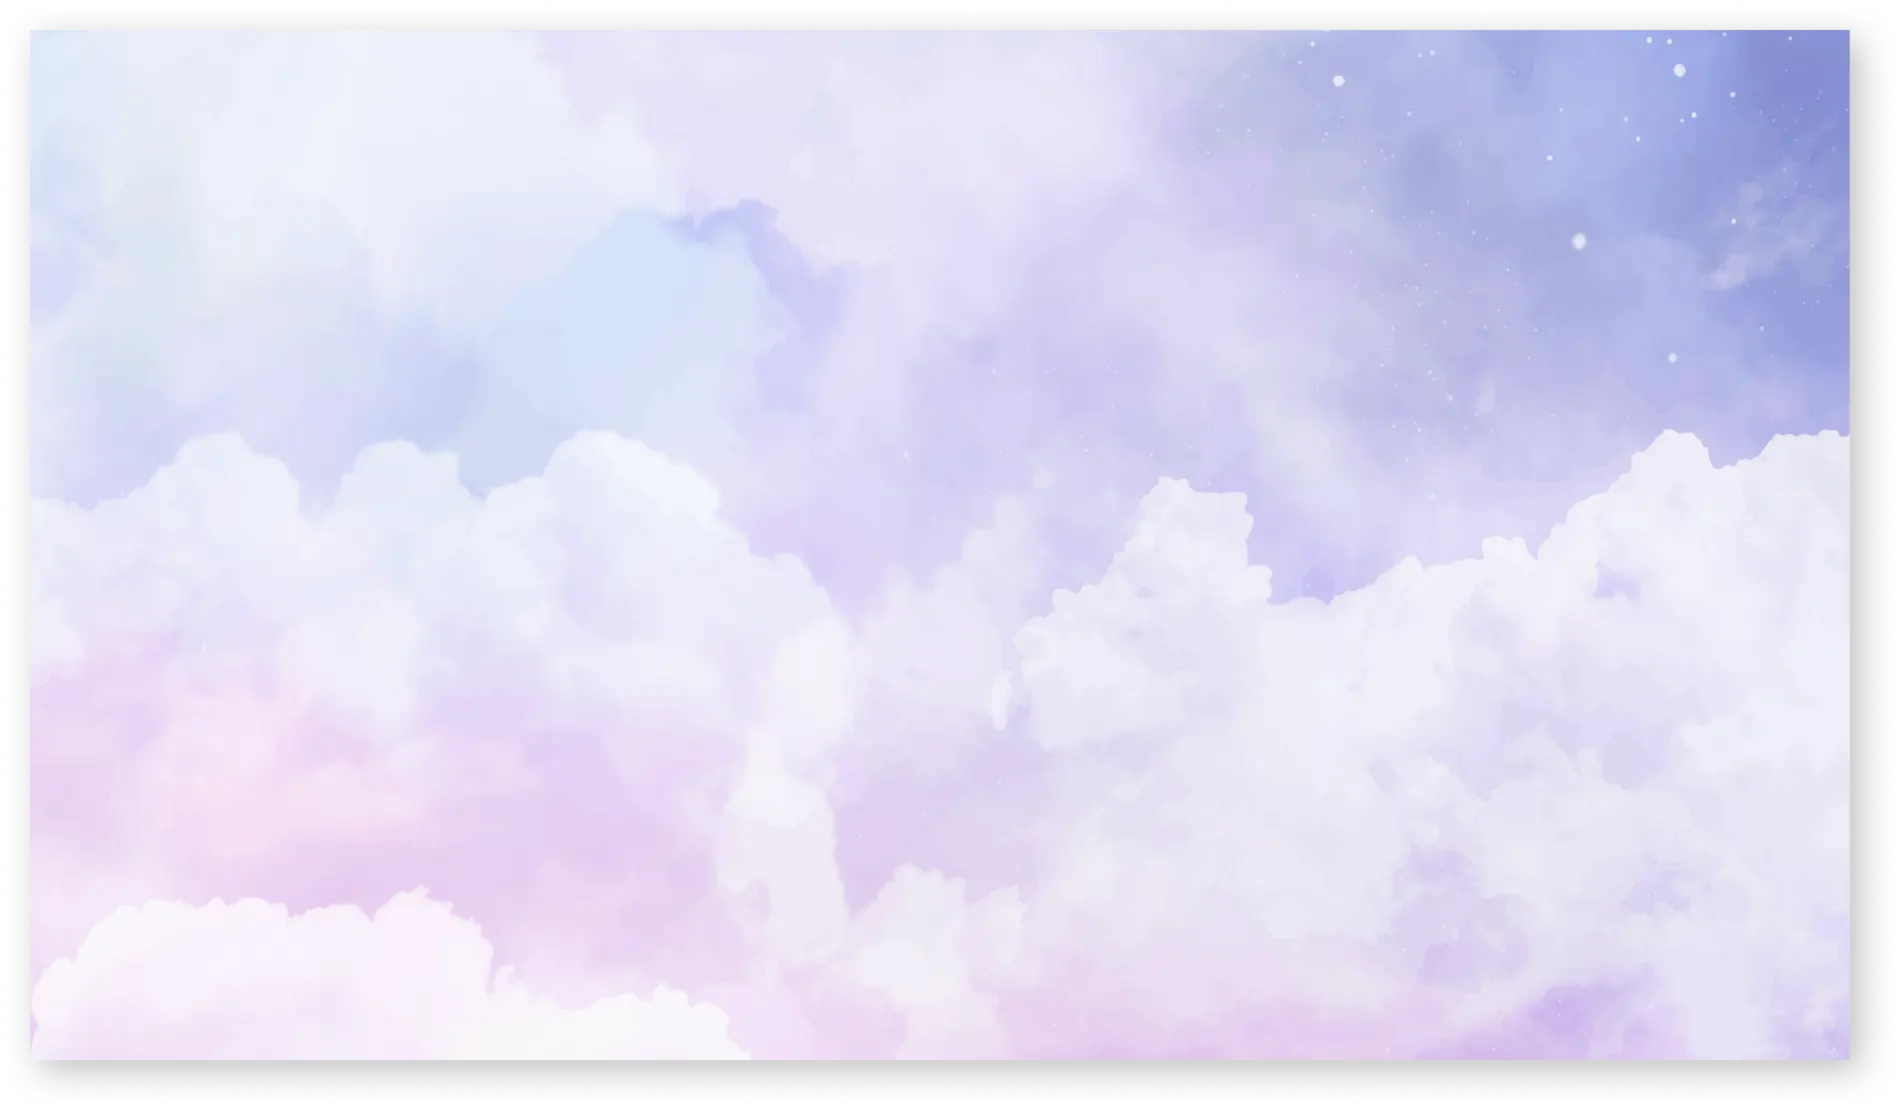
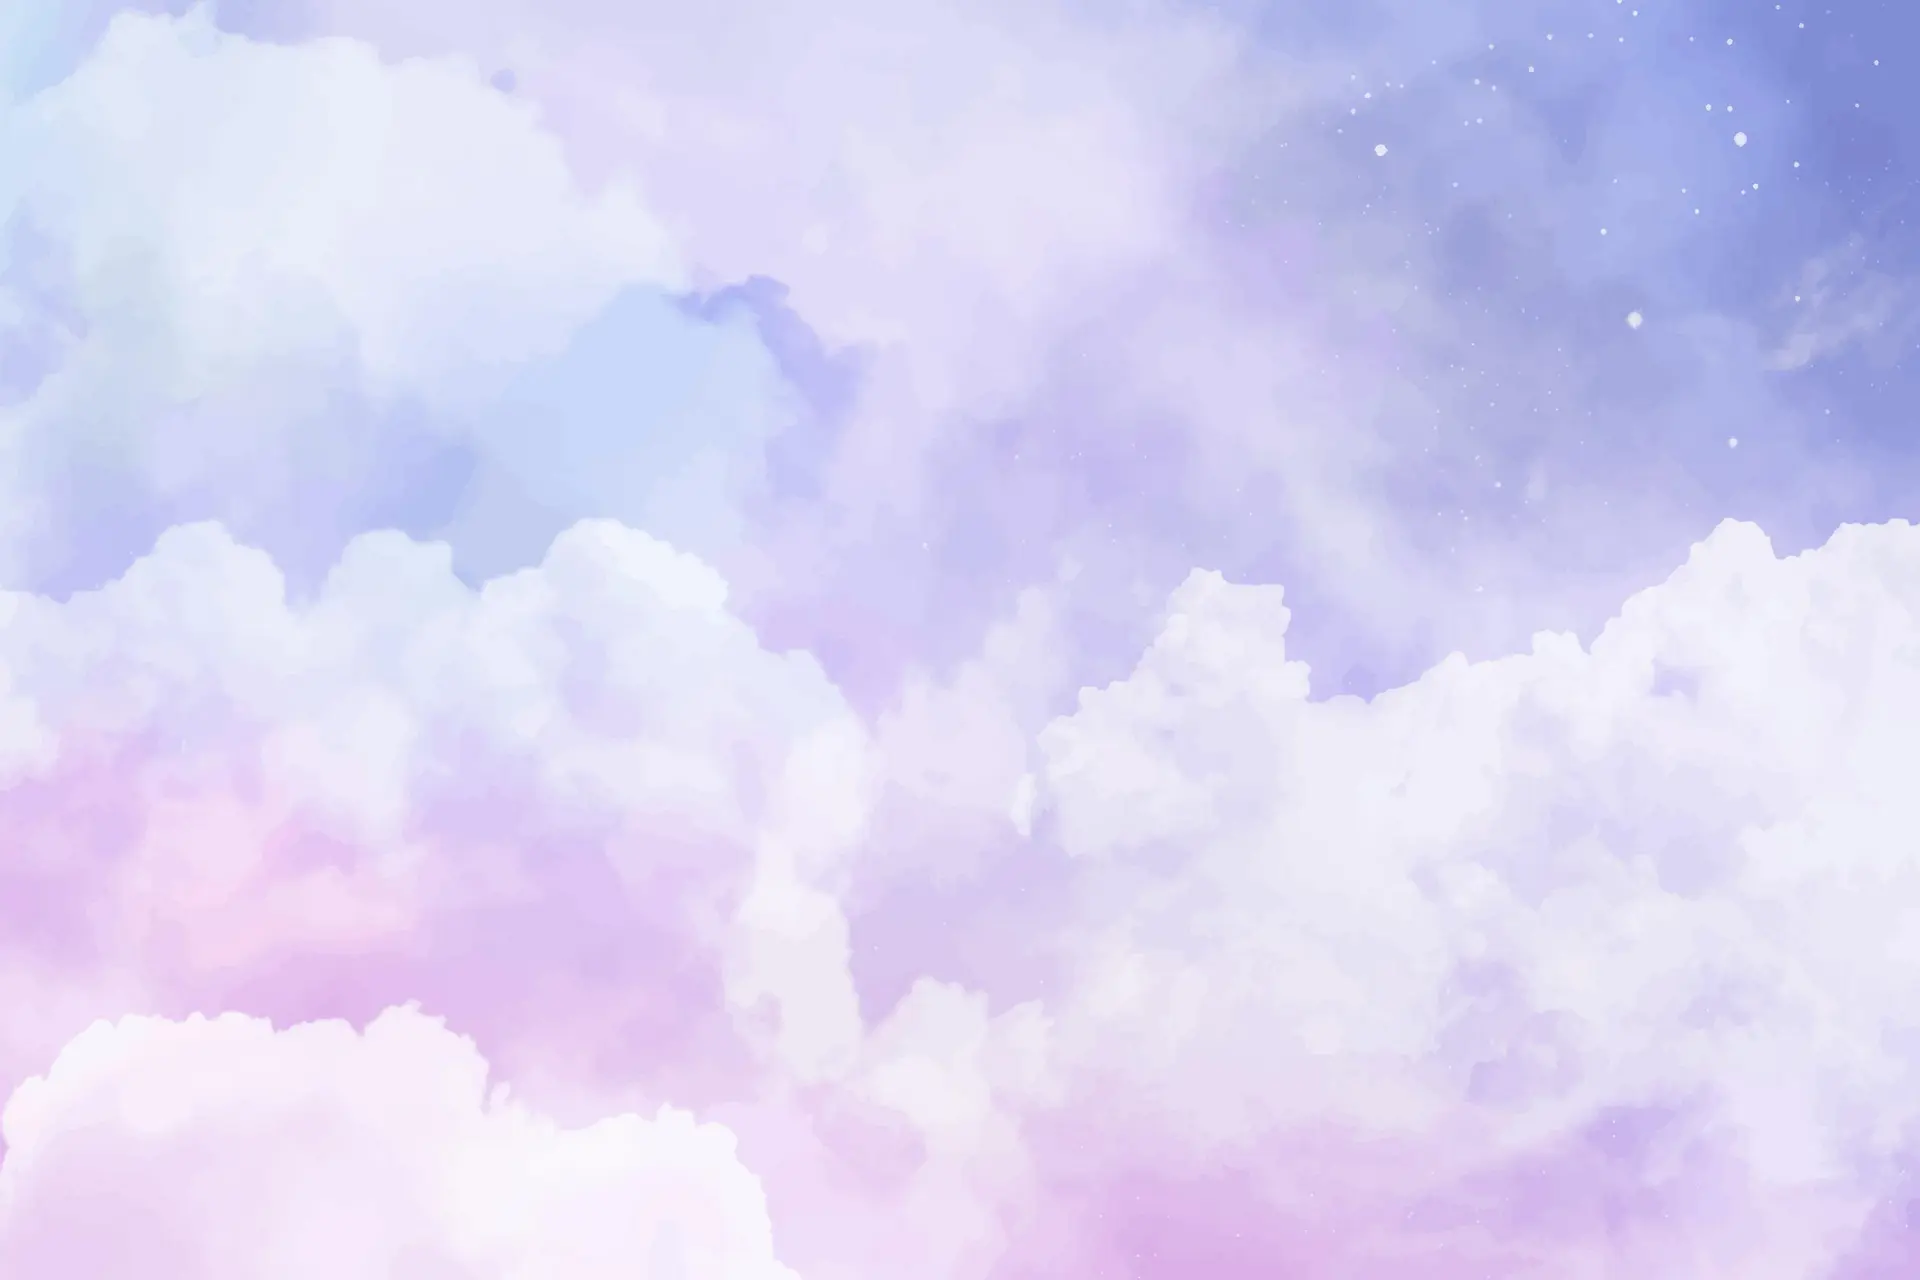
solve the bug with the bg image

diff --git a/resources/js/pages/Home/partials/HeroSection/HeroSection.tsx b/resources/js/pages/Home/partials/HeroSection/HeroSection.tsx
@@ -1,0 +1,29 @@
+import BgDkTiny from '@/assets/images/home/hero-bg-dk-tiny.webp';
+import BgDk from '@/assets/images/home/hero-bg-dk.webp';
+import BgTbTiny from '@/assets/images/home/hero-bg-tb-tiny.webp';
+import BgTb from '@/assets/images/home/hero-bg-tb.webp';
+import BgLoader from '@/components/user/ui/BgLoader/BgLoader';
+import { cn } from '@/utils/cn';
+import css from './HeroSection.module.scss';
+
+const HeroSection = () => {
+    return (
+        <section class={cn(css.wrapper, 'full-bleed')}>
+            <BgLoader
+                prtClass={cn(css.bgLoader)}
+                imgClass={css.bgImage}
+                dk={BgDk}
+                dkTiny={BgDkTiny}
+                tb={BgTb}
+                tbTiny={BgTbTiny}
+                mb={BgTb}
+                mbTiny={BgTbTiny}
+            />
+
+            {/* <img src={BgDk} alt="" class={css.test} /> */}
+            this is hero
+        </section>
+    );
+};
+
+export default HeroSection;

diff --git a/resources/scss/utils/_mixins.scss b/resources/scss/utils/_mixins.scss
@@ -94,17 +94,17 @@
 }
 
 @function top-shadow($depth) {
-    $primary-offset: nth(1.5 3 10 14 19, $depth) * 1px;
-    $blur: nth(1.5 3 10 14 19, $depth) * 4px;
-    $color: rgba(black, nth(0.12 0.16 0.19 0.25 0.3, $depth));
+    $primary-offset: list.nth(1.5 3 10 14 19, $depth) * 1px;
+    $blur: list.nth(1.5 3 10 14 19, $depth) * 4px;
+    $color: rgba(black, list.nth(0.12 0.16 0.19 0.25 0.3, $depth));
 
     @return 0 $primary-offset $blur $color;
 }
 
 @function bottom-shadow($depth) {
-    $primary-offset: nth(1.5 3 6 10 15, $depth) * 1px;
-    $blur: nth(1 3 3 5 6, $depth) * 4px;
-    $color: rgba(black, nth(0.24 0.23 0.23 0.22 0.22, $depth));
+    $primary-offset: list.nth(1.5 3 6 10 15, $depth) * 1px;
+    $blur: list.nth(1 3 3 5 6, $depth) * 4px;
+    $color: rgba(black, list.nth(0.24 0.23 0.23 0.22 0.22, $depth));
 
     @return 0 $primary-offset $blur $color;
 }

diff --git a/resources/js/pages/Home/Home.tsx b/resources/js/pages/Home/Home.tsx
@@ -8,6 +8,7 @@ import BgLoader from '@/components/user/ui/BgLoader/BgLoader';
 import AppLayout from '@/layouts/user/AppLayout/AppLayout';
 import css from './Home.module.scss';
 import { cn } from '@/utils/cn';
+import HeroSection from './partials/HeroSection/HeroSection';
 
 const Home = () => {
     return (
@@ -21,10 +22,8 @@ const Home = () => {
                 mb={BgMb}
                 mbTiny={BgMbTiny}
             />
-            <div class={css.wrapper}>
-                Hello world
-                <p class={css.test}>Test</p>
-            </div>
+
+            <HeroSection />
         </AppLayout>
     );
 };

diff --git a/resources/js/pages/Home/partials/HeroSection/HeroSection.module.scss b/resources/js/pages/Home/partials/HeroSection/HeroSection.module.scss
@@ -1,0 +1,28 @@
+@use 'core' as u;
+
+.wrapper {
+    --padding: 0;
+    overflow: hidden;
+    overflow: clip;
+    position: relative;
+    max-width: calc(100% - (var(--padding) * 2));
+    margin-inline: auto;
+    isolation: isolate;
+    @include u.px(mt, null, null, 37, 21);
+    @include u.px(--padding, null, null, 27, 45);
+    @include u.px(rounded, null, null, 36, 36);
+    @include u.rm(h, 913, 1350, 999, 1032);
+}
+
+
+.bgImage {
+    background-color: blue;
+}
+
+.test {
+    display: block;
+    width: 100%;
+    height: 100%;
+    z-index: 10;
+    object-fit: cover;
+}

diff --git a/resources/js/layouts/user/AppLayout/partials/AppHeader/AppHeader.tsx b/resources/js/layouts/user/AppLayout/partials/AppHeader/AppHeader.tsx
@@ -5,11 +5,8 @@ import css from './AppHeader.module.scss';
 
 const AppHeader: FC<NodeProps> = ({ className }) => {
     return (
-        <header class={cn('', css.wrapper, className)}>
-            this is app header
-            <h1>This is tet</h1>
-            <h2>This is tet</h2>
-            <button class="primary-btn">this is a button </button>
+        <header class={cn(css.wrapper, className)}>
+            this is header
         </header>
     );
 };

diff --git a/resources/js/components/user/ui/BgLoader/BgLoader.module.scss b/resources/js/components/user/ui/BgLoader/BgLoader.module.scss
@@ -5,10 +5,13 @@
     isolation: isolate;
     position: relative;
     inset: 0;
+    width: 100%;
+    height: 100%;
     z-index: -5;
     overflow: hidden;
     overflow: clip;
     user-select: none;
+    display: flex;
 }
 
 .picture {
